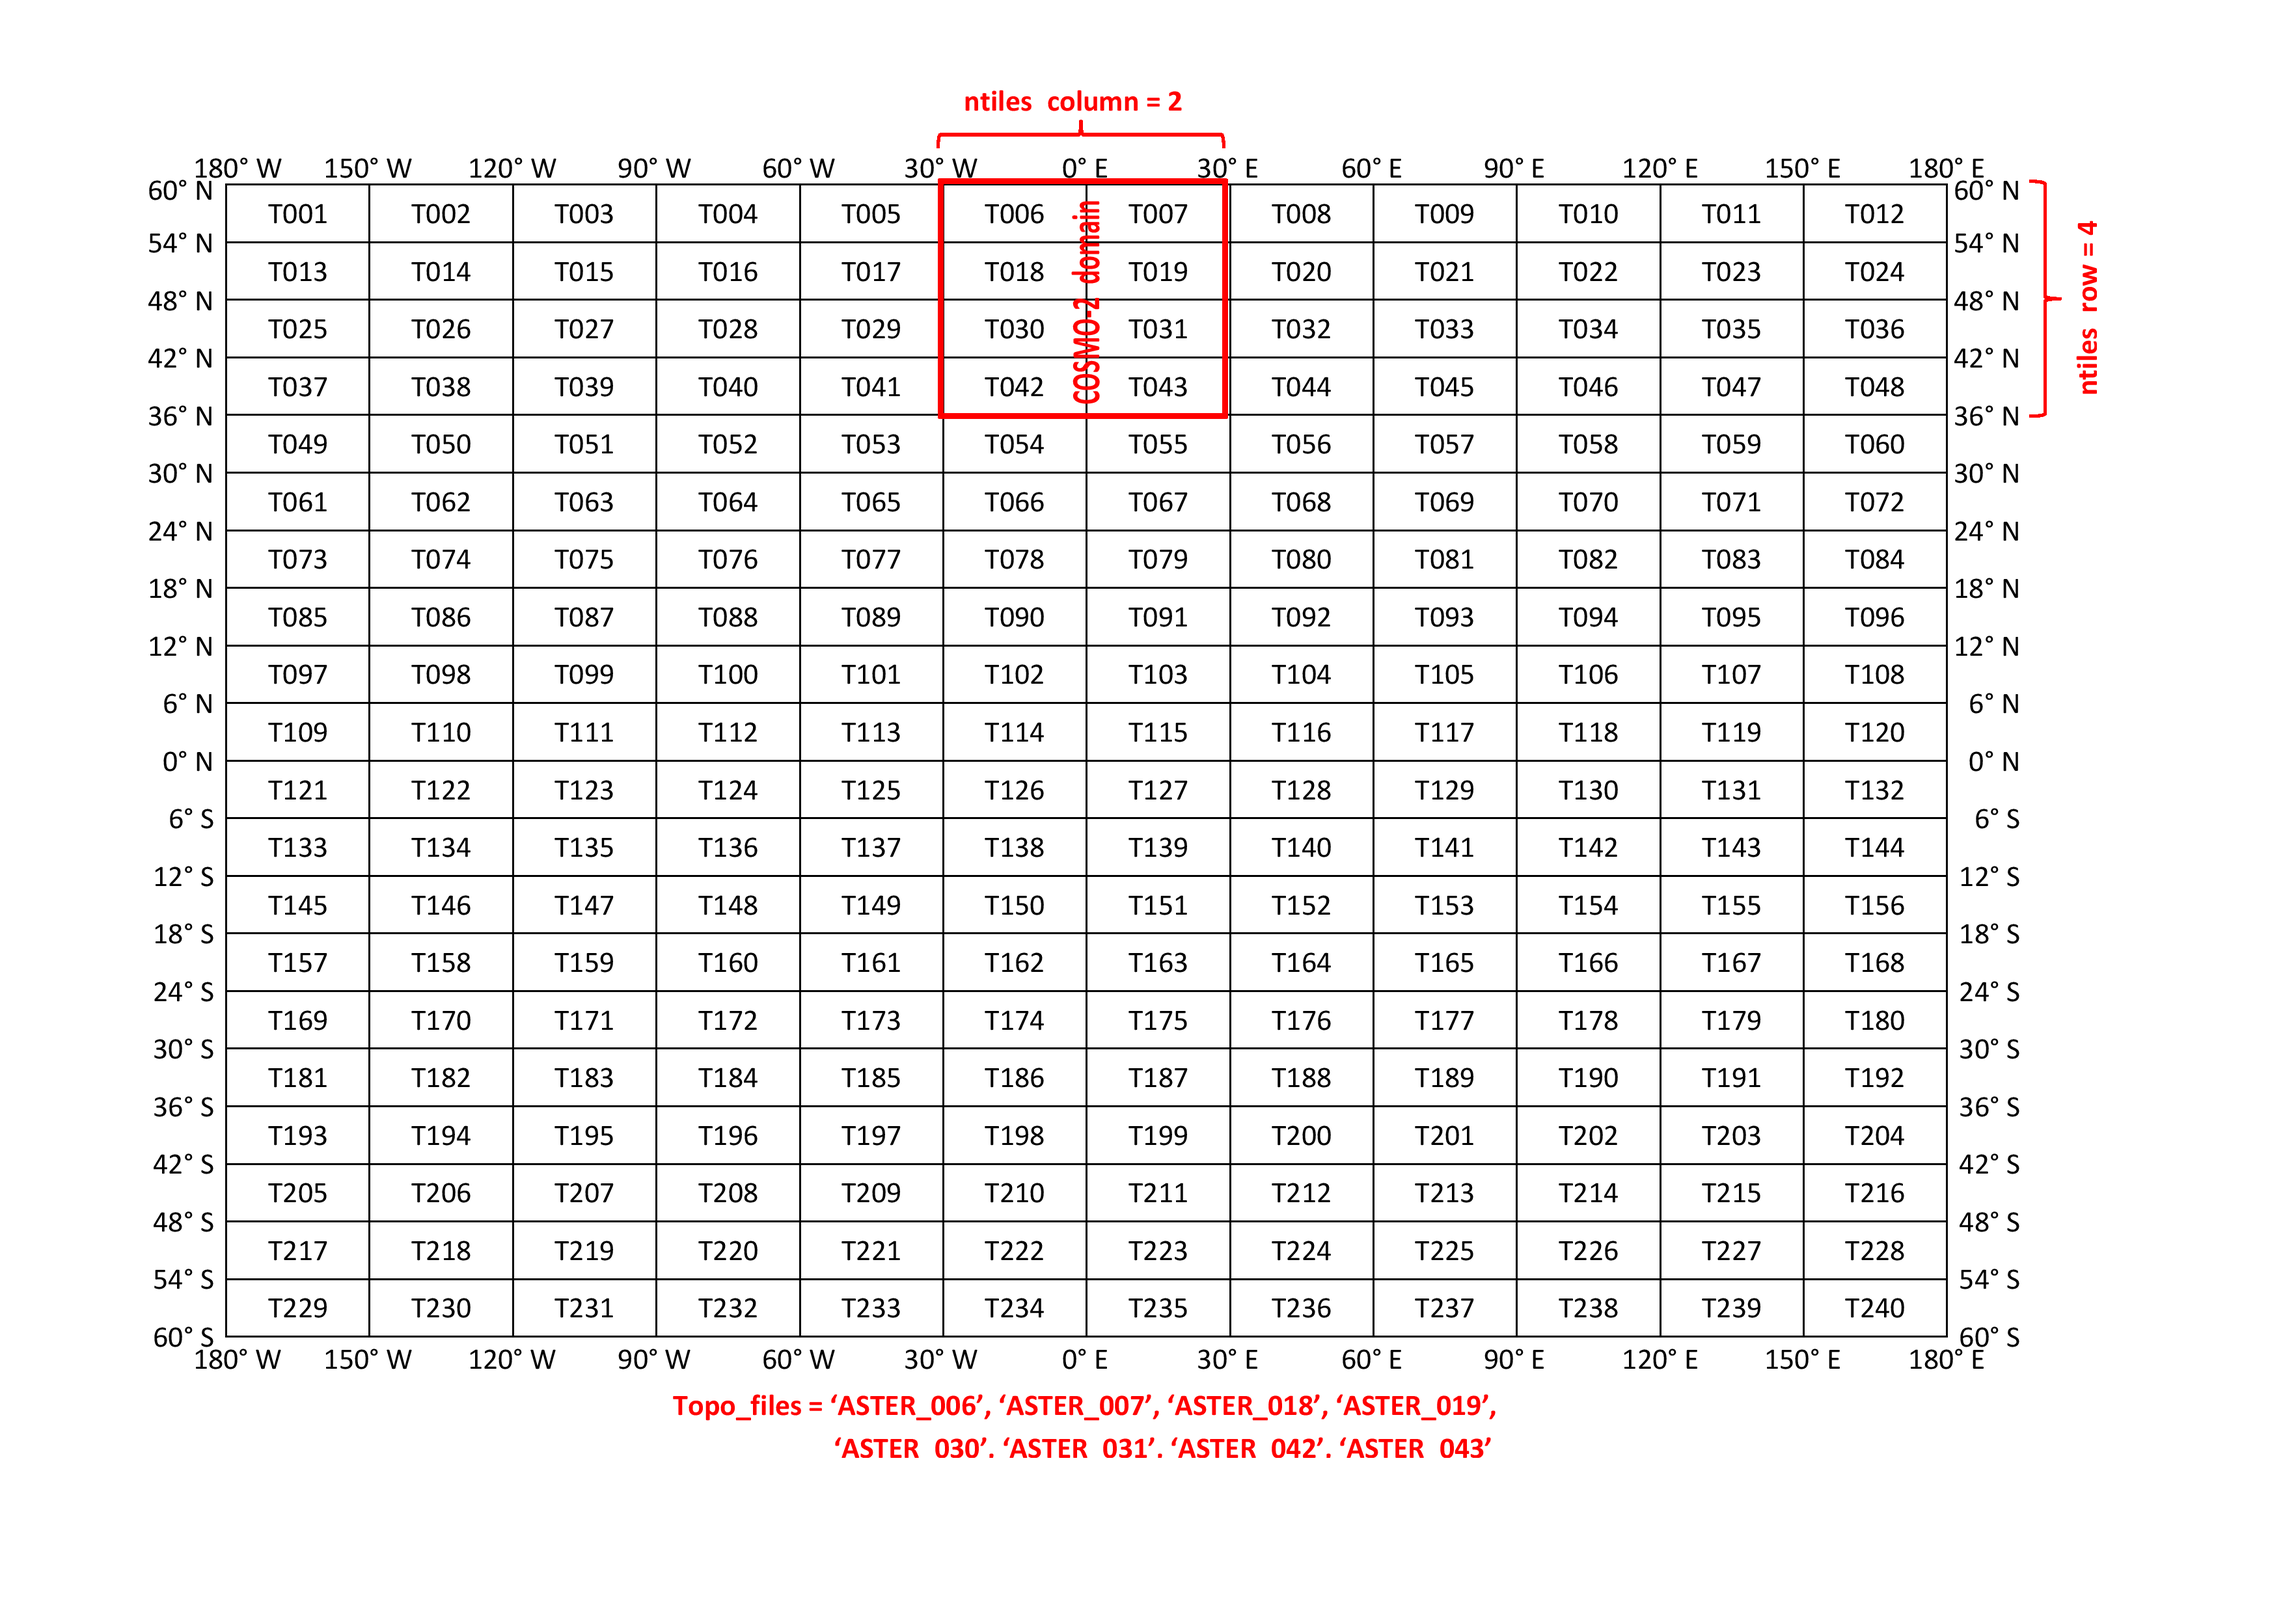
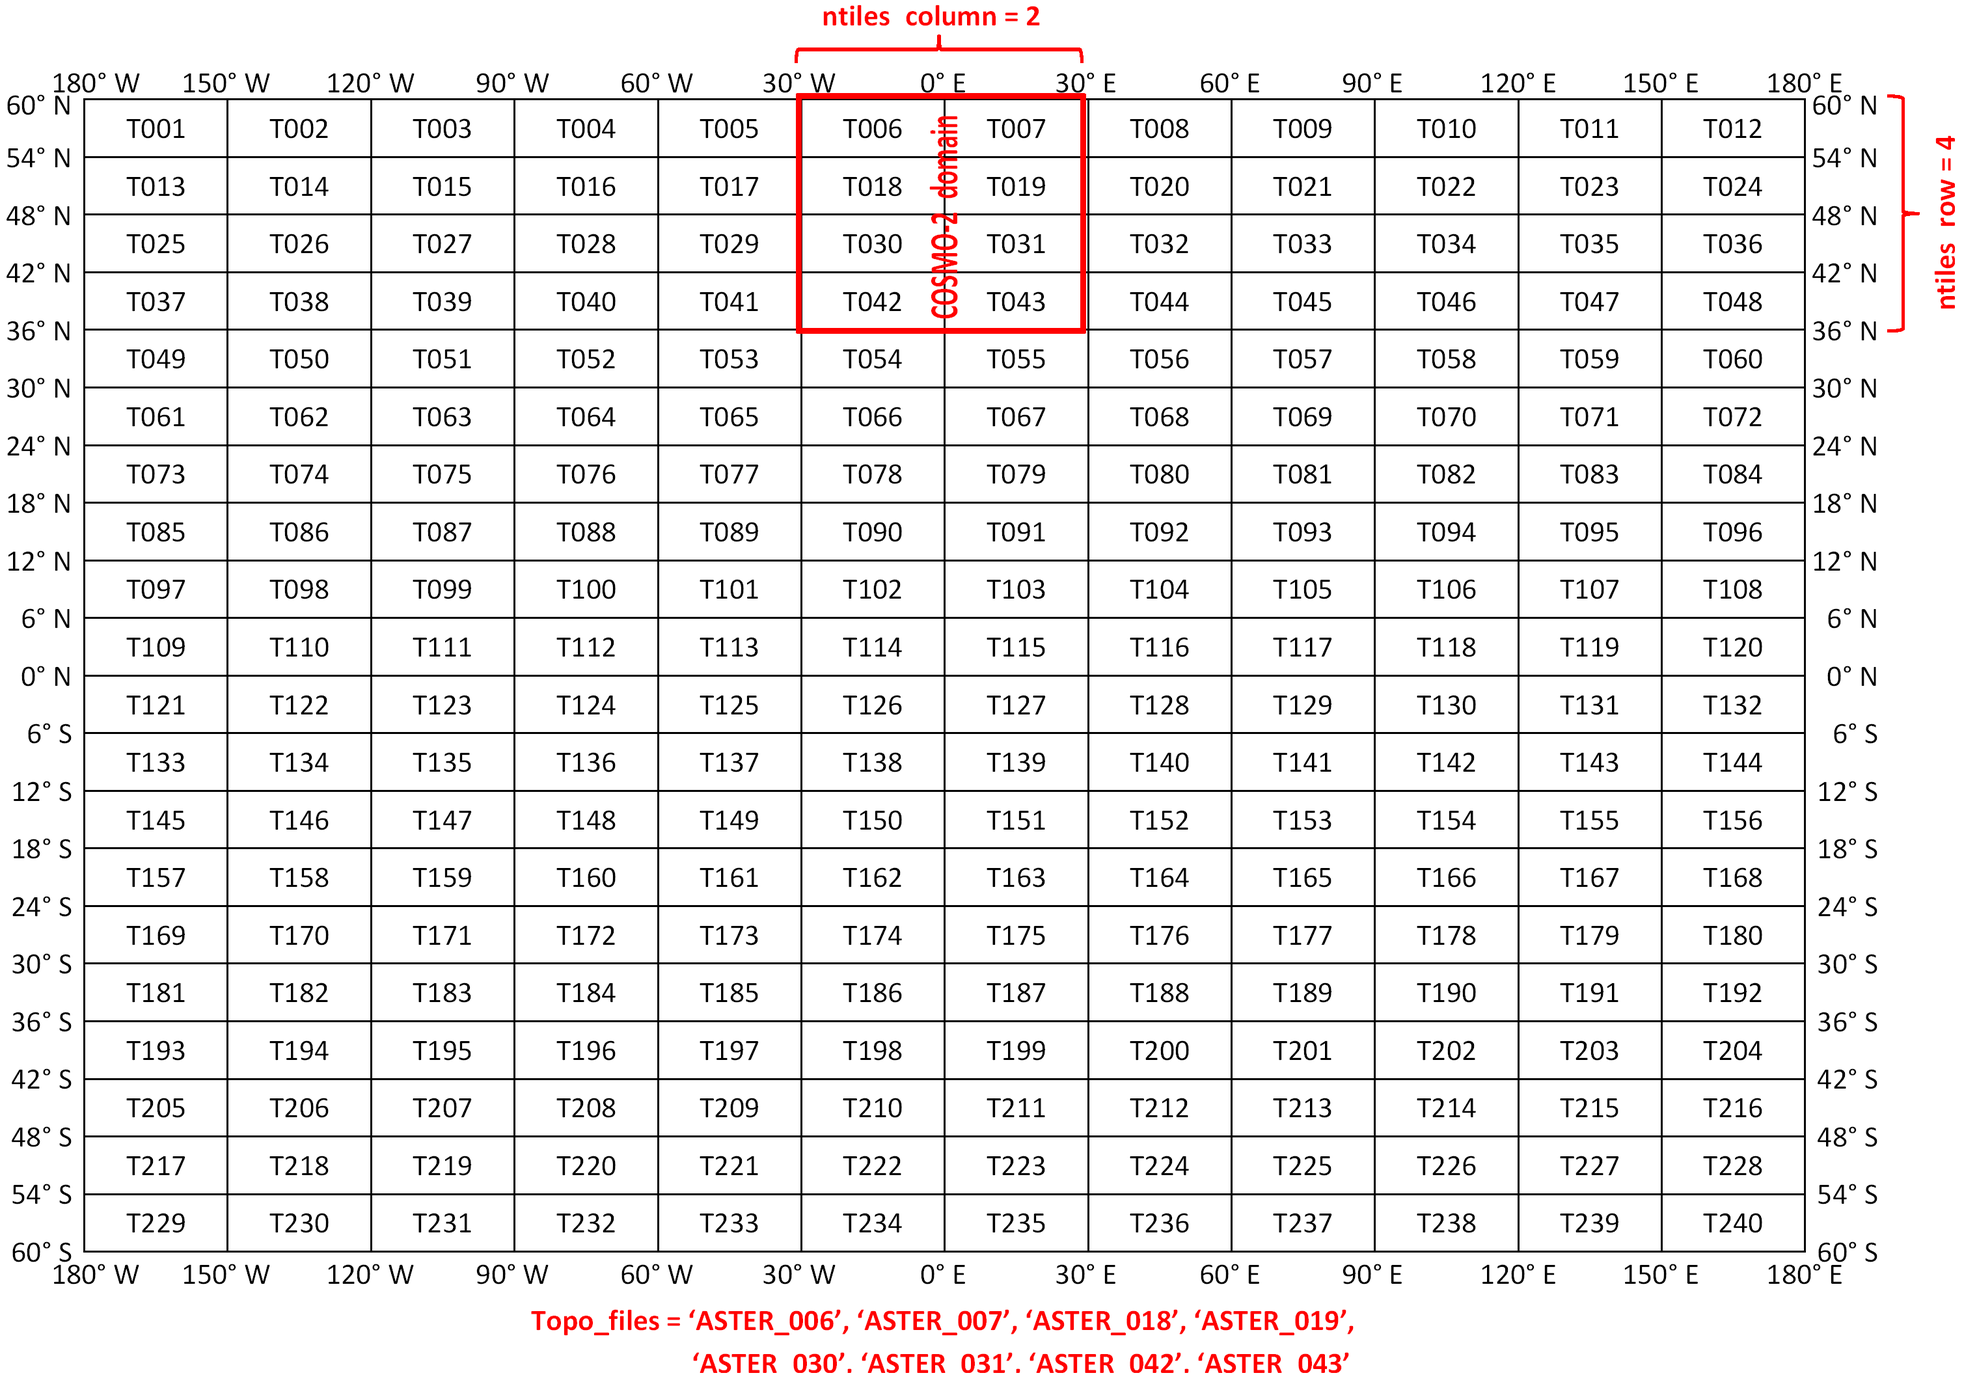
Crop images and add to docs

diff --git a/docs/user_manual/user_manual_03_fortran_modules.md b/docs/user_manual/user_manual_03_fortran_modules.md
@@ -107,6 +107,12 @@ an abortion of this program. As there is no need to calculate the
 subgrid scale parameters (SSO) for high resolution setups, there is the
 logical switch *lsso\_parm* to turn off the calculation of the SSOs.
 
+![](ASTER_files.png)
+*Illustration of the single domains of the 240 ASTER tiles. An example of how the three parameters ntiles\_columns, ntiles\_row and topo\_files in the namelist could look like is given in red.*
+
+![](map_merit_rema.png)
+*Illustration of the single domains of the 60 MERIT and the 12 REMA tiles below 60 deg S latitude.*
+
 Furthermore the variables of the namelist 'INPUT\_ORO', which cover all
 the raw topographical data information, are fed into the program. In
 this namelist the path of the raw data is given as well as the names of
@@ -224,7 +230,8 @@ read step by step as suggested in Fig.
 reference="fig:grid_figure"}. If the scale separation is desired the
 same procedure is applied to the 3 km filtered topography.
 
-0cm0cm17.5cm8.5cm
+![](grid_figure.png)
+*Schematic illustration of the filling of the raw data with a 500 grid points long band. The green crosses indicate the start end end latitudes and longitudes of each raw topography tile (light blue tiles), whereas the red circles show the indices inside the band, where the green indices of the tiles must be placed.*
 
 After this step, a temporary variable of elevation values is filled.
 This variable consists of three rows, which comprises the whole
@@ -248,6 +255,9 @@ point. Only the green grid elements in Fig.
 [\[fig:aggregation\_figure\]](#fig:aggregation_figure){reference-type="ref"
 reference="fig:aggregation_figure"} b) belong to a target grid element.
 The rest of the raw topography is unused.
+
+![](aggregation_figure.png)
+*a) Illustration of the aggregation of the raw data to the target grid. The red circle indicates a target grid point, while the green rectangle represents the part of the raw data that is aggregated on the target grid point. b) Showing the target grid on top of the raw data set, where only the green grid points of the raw data are used for the target grid.*
 
 The elevations of raw data pixels that belong to one target grid element
 are summed up, and the number of raw data pixels contributing to one

diff --git a/docs/user_manual/user_manual_02_software_modules.md b/docs/user_manual/user_manual_02_software_modules.md
@@ -47,6 +47,9 @@ general information of the target grid to which the raw data should be
 aggregated. The namelist file 'namelist.py' is read by all Python
 programmes.
 
+![](EXTPAR_Figure.png)
+*Schematic illustration of the software EXTPAR.*
+
 ## Hybrid Python-CDO structure {#Python-CDO}
 
 For three of the external parameters calculated by EXTPAR, namely
